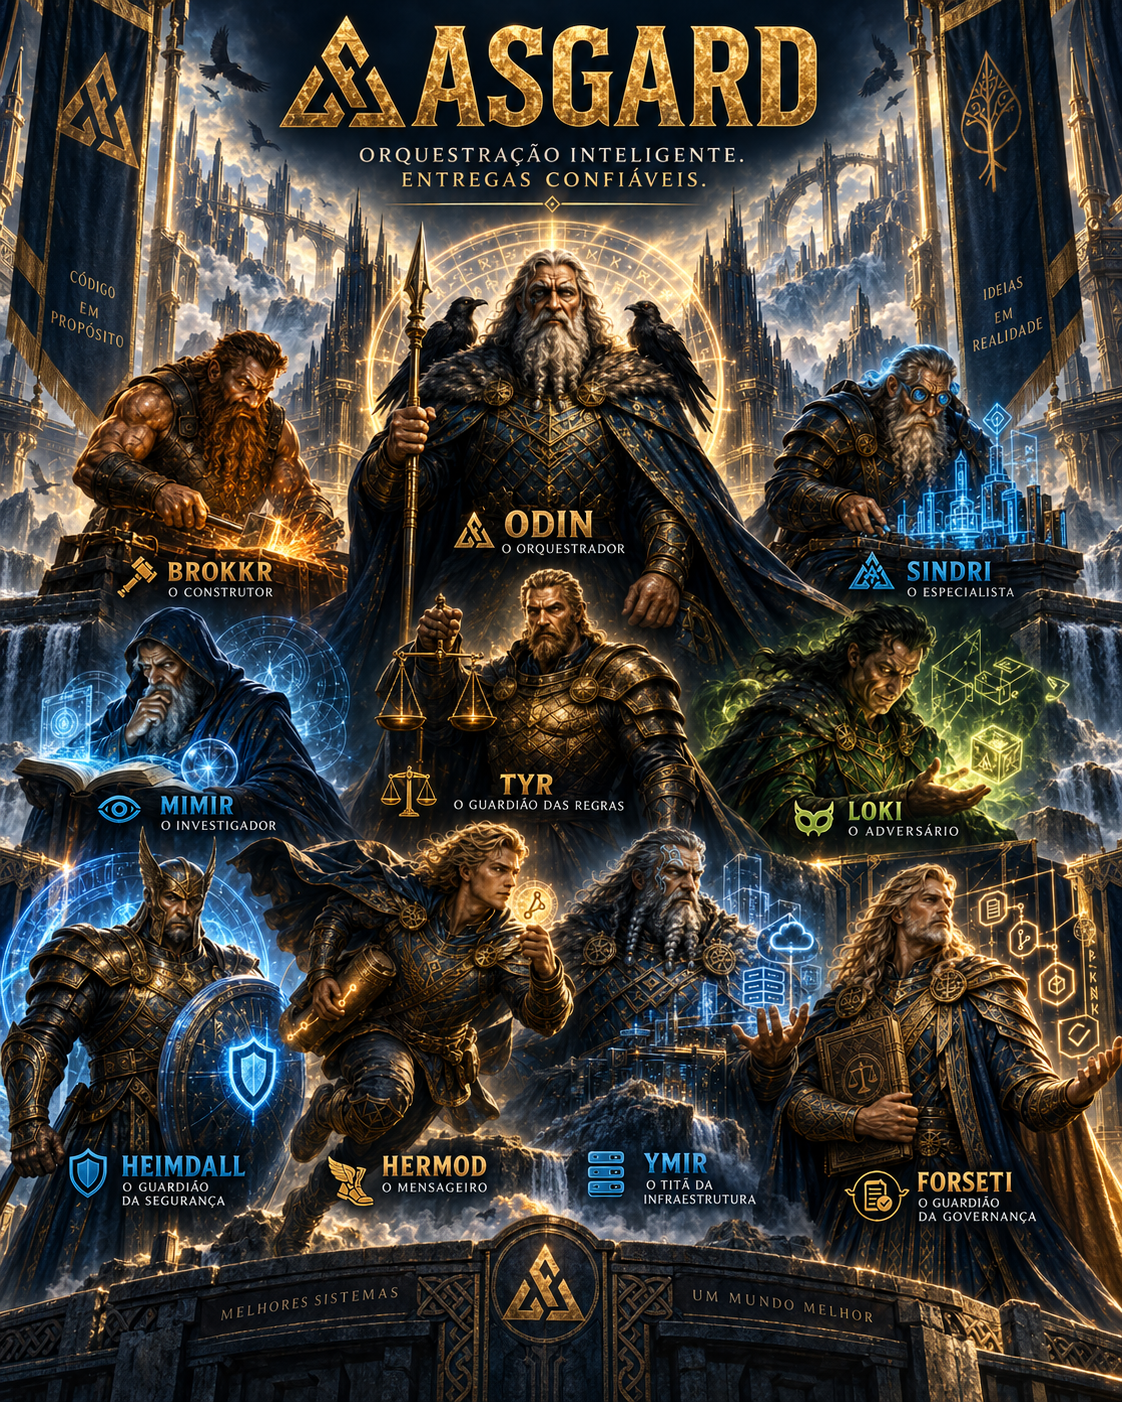
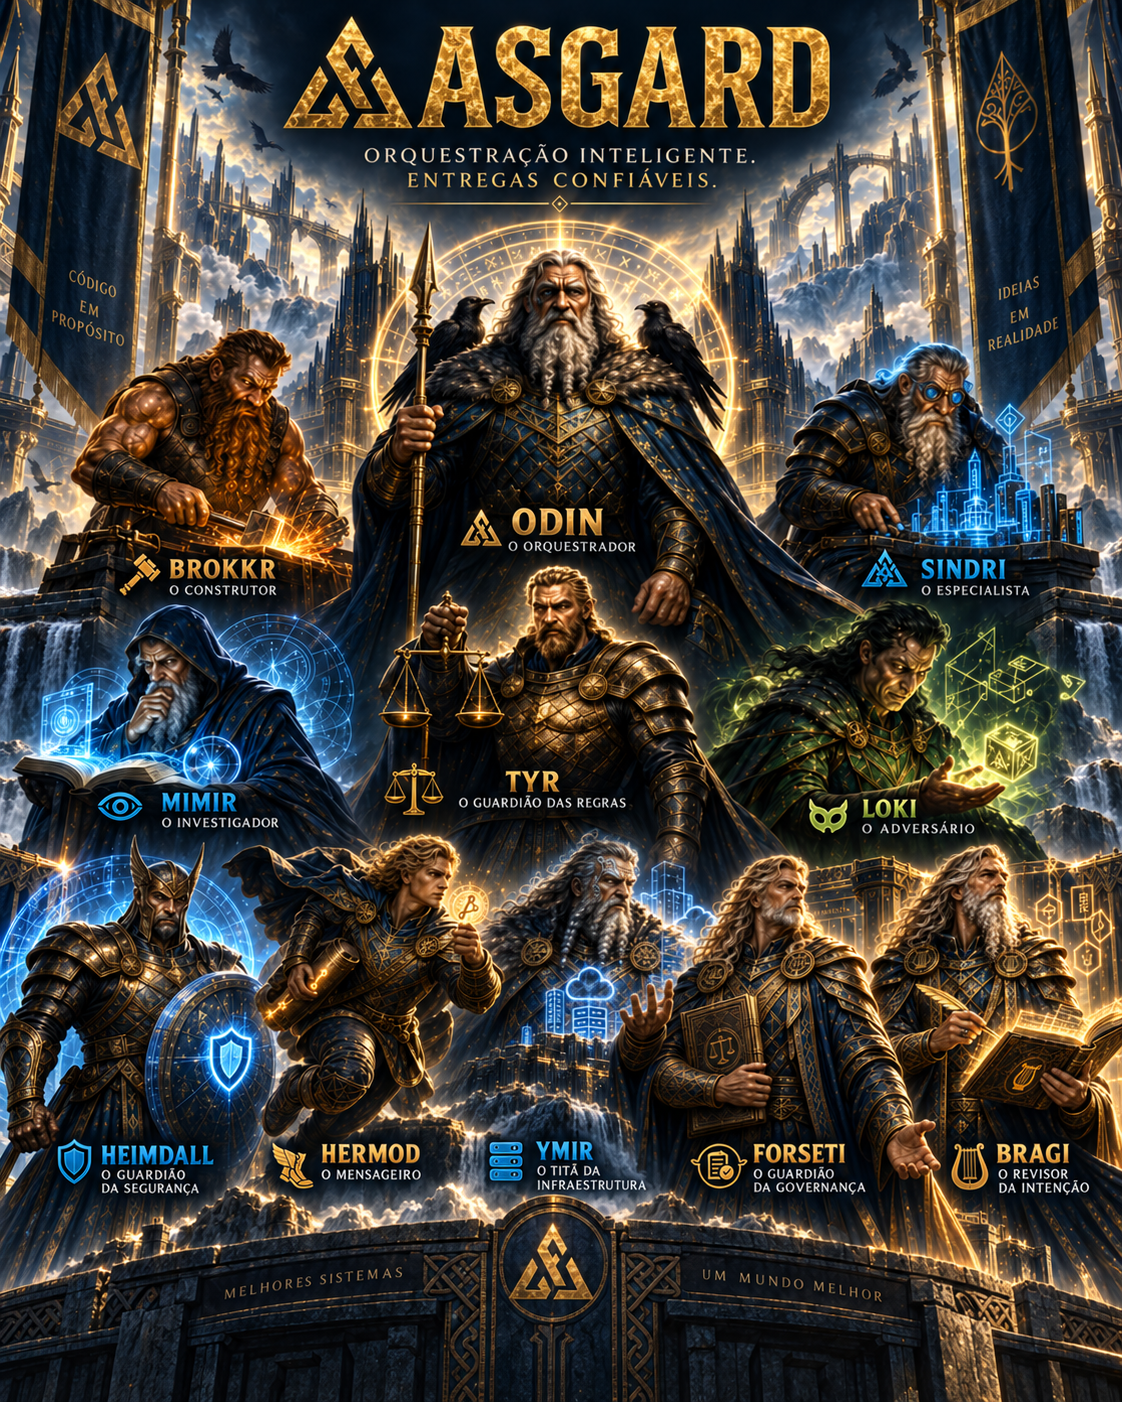
docs(asgard): publish Bragi artwork

diff --git a/README.md b/README.md
@@ -38,6 +38,16 @@ Do not use it for routine single-file edits or ordinary work that one agent can 
 
 Specialists receive task-local context rather than the entire conversation. Their reports and passing tests are evidence; Odin still inspects the candidate and makes the acceptance decision.
 
+### Bragi: final-candidate code review
+
+<p align="center">
+  <img src="./assets/bragi.png" alt="Bragi, Asgard's reviewer of code intent, readability, and maintainability" width="420">
+</p>
+
+Bragi reviews code only after the implementer reports `IMPLEMENTER_COMPLETE`, against the stable final candidate rather than each file as it changes. This keeps review feedback consolidated and avoids restarting services, builds, or broad test suites during the review.
+
+The review is read-only and applies SOLID, DRY, KISS, YAGNI, and Tell, Don't Ask as context-sensitive design lenses. Bragi distinguishes maintainability risks from stylistic preferences, reports concrete evidence and impact, and sends confirmed findings back through Odin for one bounded correction pass by the original implementer.
+
 ## Delivery modes
 
 - **Lean:** one bounded, low-risk activity with an implementer and Odin review. Add a specialist gate only for an identified risk, including Bragi when maintainability is a stated concern.

diff --git a/CHANGELOG.md b/CHANGELOG.md
@@ -6,6 +6,10 @@ The format follows [Keep a Changelog](https://keepachangelog.com/en/1.1.0/), and
 
 ## [Unreleased]
 
+### Added
+
+- Add Bragi as the independent final-candidate reviewer for human-readable, maintainable code, with context-sensitive SOLID, DRY, KISS, YAGNI, and Tell, Don't Ask guidance and official artwork ([issue #56](https://github.com/VissotoFlavio/asgard-codex-skill/issues/56), [PR #57](https://github.com/VissotoFlavio/asgard-codex-skill/pull/57)).
+
 ## [0.7.2] - 2026-09-08
 
 Release PR: [#54](https://github.com/VissotoFlavio/asgard-codex-skill/pull/54).
